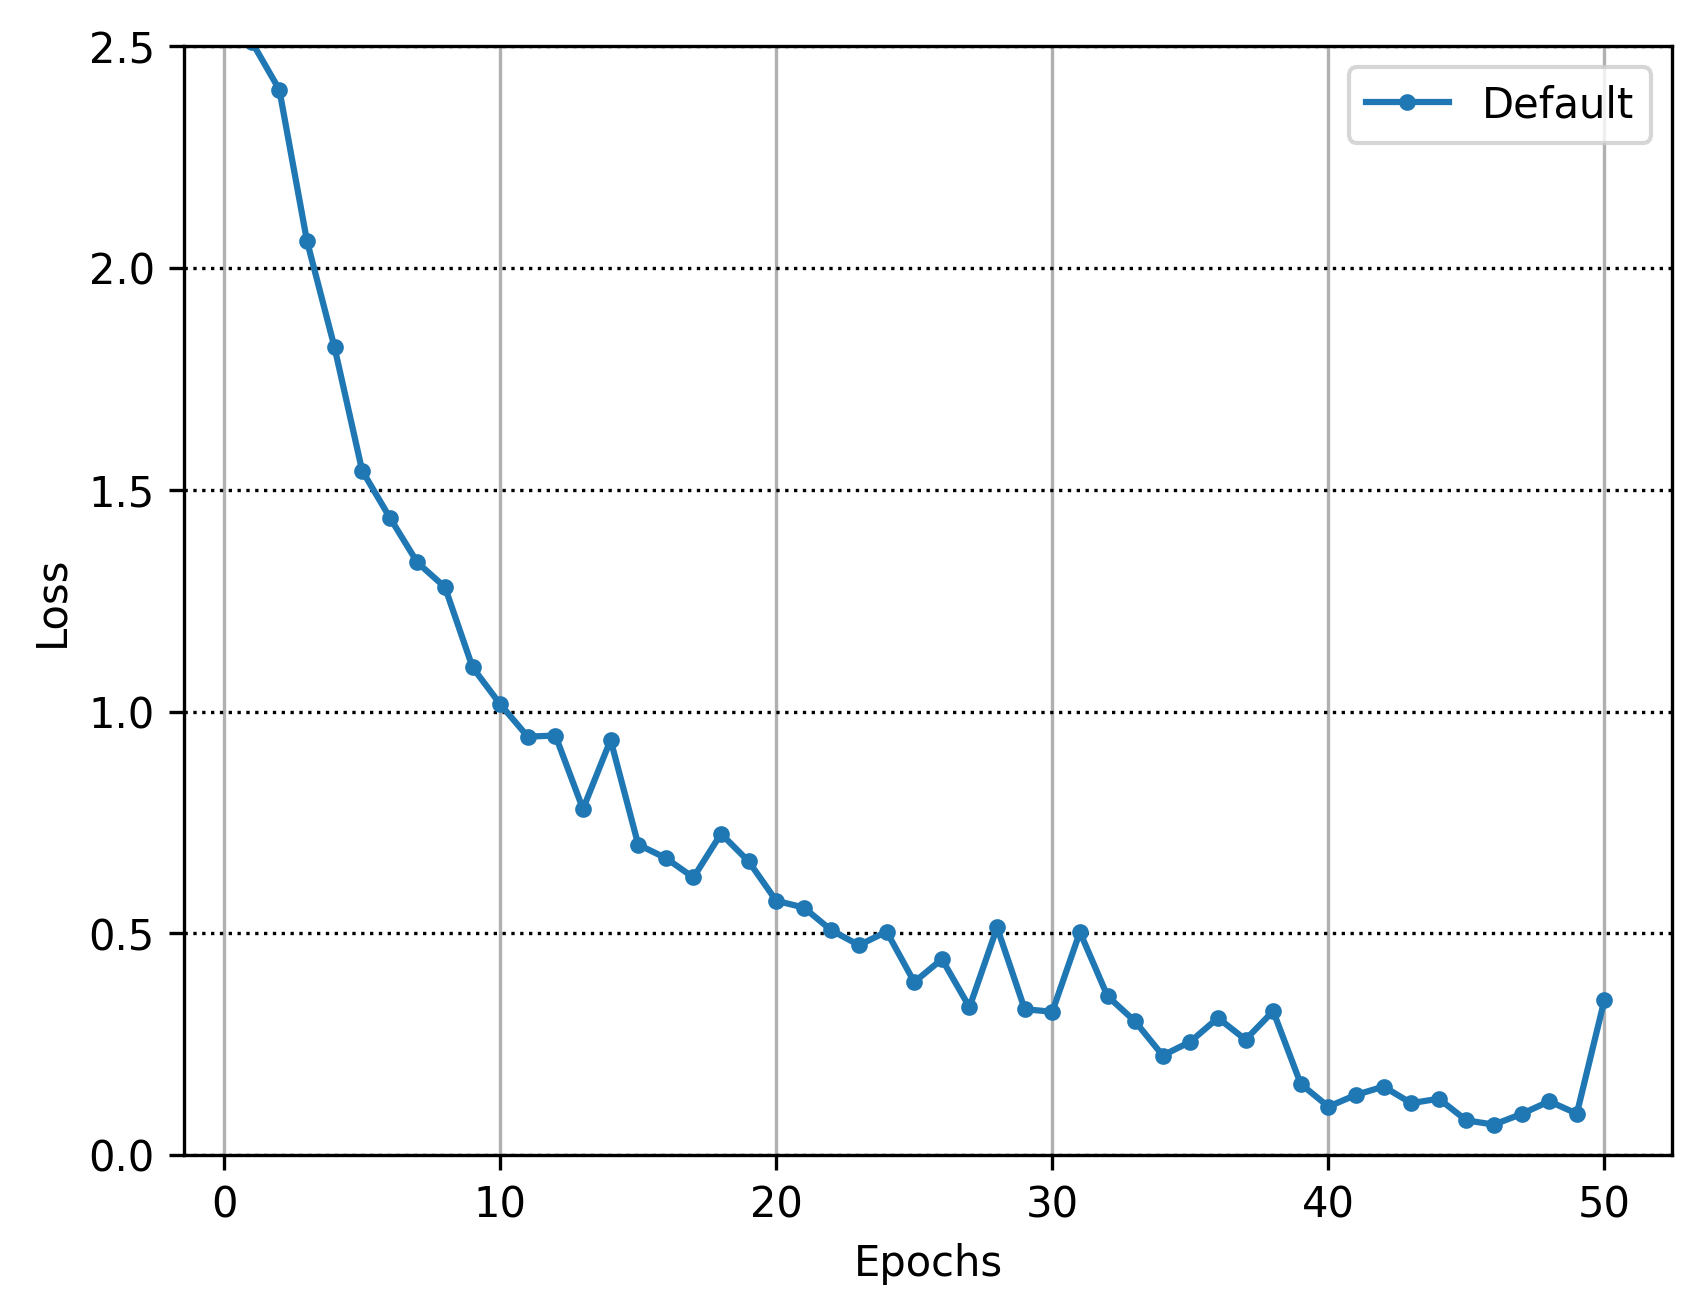
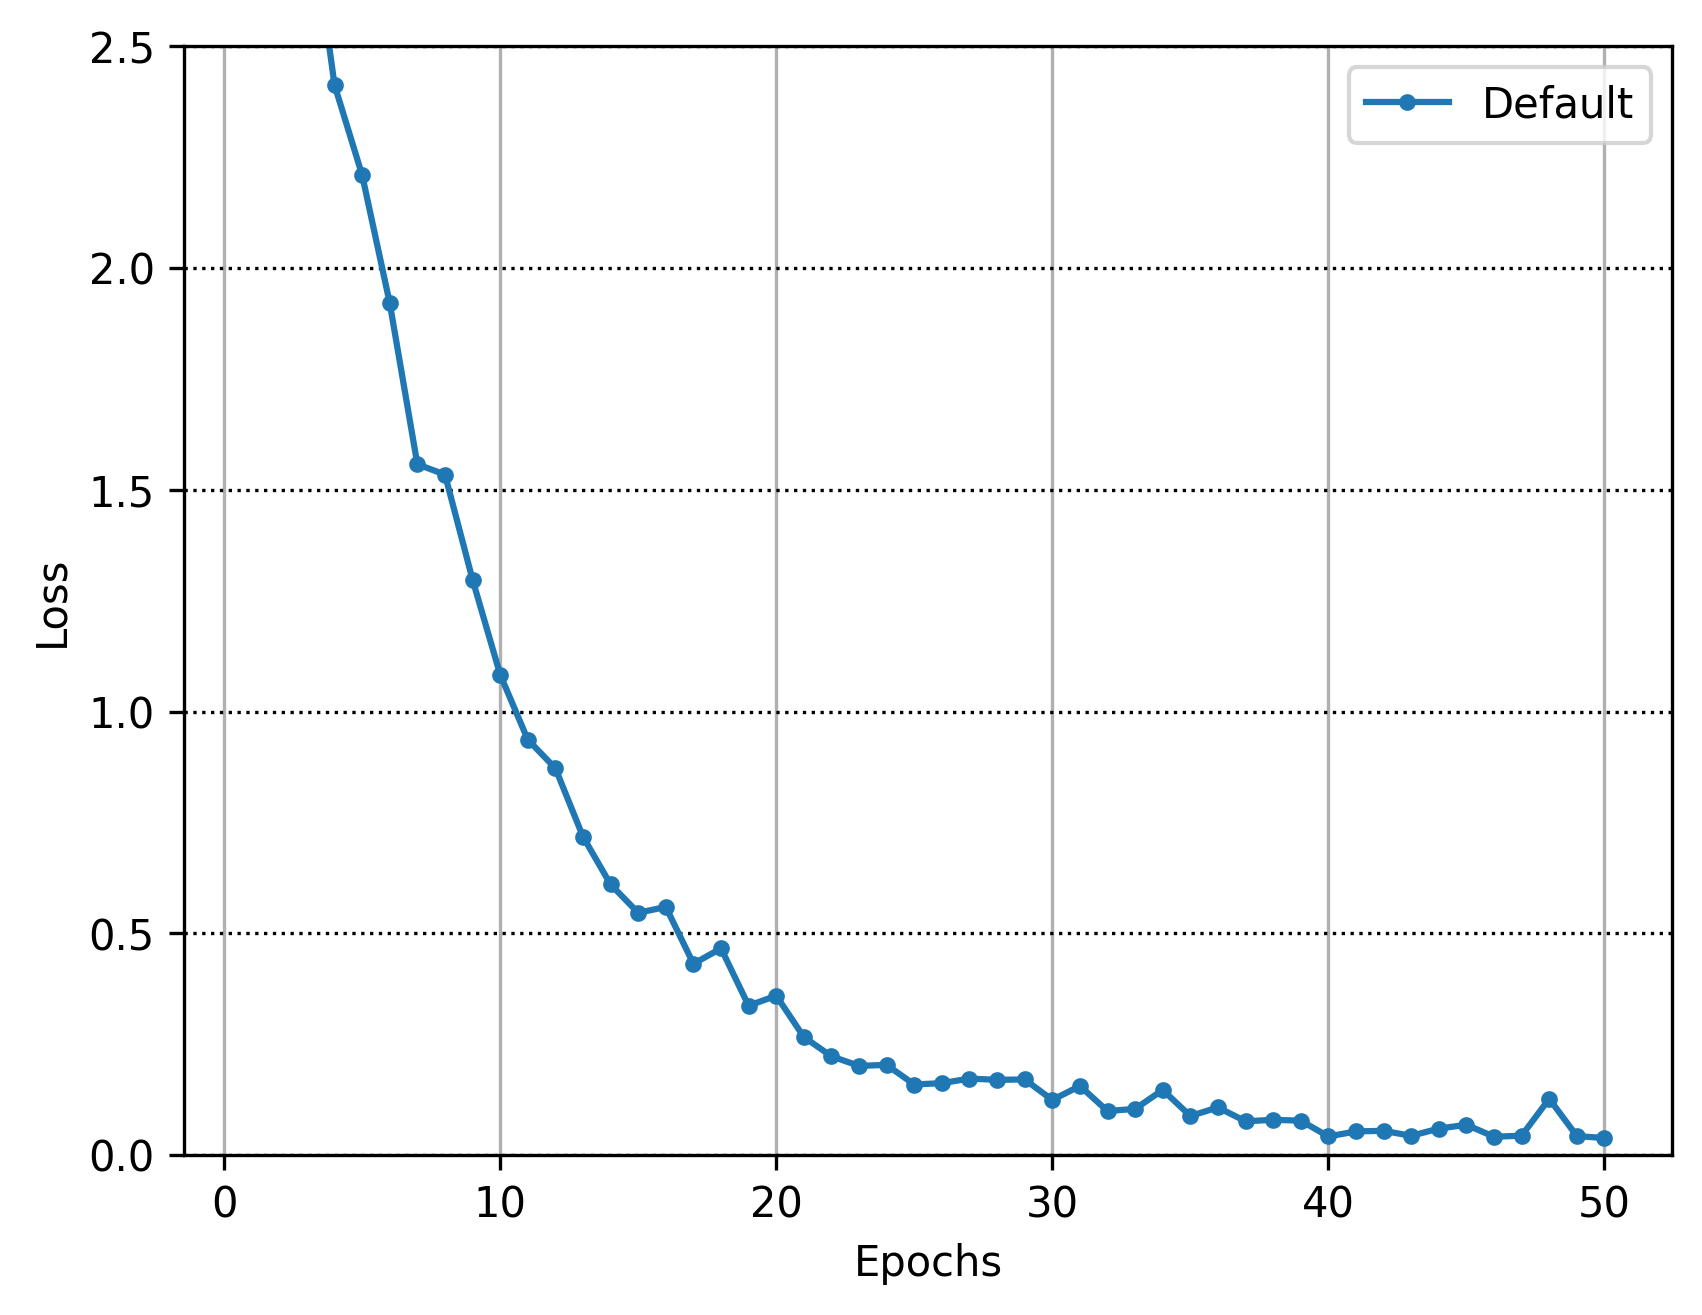
feat: lsa64関連

diff --git a/csv_to_hdf5/src/csv_to_hdf5.py b/csv_to_hdf5/src/csv_to_hdf5.py
@@ -1,18 +1,18 @@
 import os
-import glob
 import pandas as pd
 import h5py
 import numpy as np
+import config
+import lsa64_relation
 
 ROWS_PER_FRAME = 478 + 33 + 21 + 21  # Number of landmarks per frame.
 
 
 def get_index_csv_files():
-    file_path = "../../csv/nhk/index.csv"
     try:
-       track_info = pd.read_csv(file_path)
+       track_info = pd.read_csv(config.index_file_path)
     except FileNotFoundError:
-        print(f"ディレクトリ '{file_path}' が存在しません。")
+        print(f"ディレクトリ '{config.index_file_path}' が存在しません。")
     return track_info
 
 
@@ -32,15 +32,23 @@ def landmarks_csv_to_hdf5(track_info:list , output_dir: str, dictionary: dict, c
     for upid in upids:
         print(upid)
         temp_info = track_info[track_info["person_number"] == upid]
-        out_path = os.path.join(output_dir, f"{upid}.hdf5")
+        out_path = os.path.join(output_dir, f"{str(upid).zfill(3)}.hdf5")
         print(f"person_number={upid} のデータを '{out_path}' に保存します。")
-
+        if not os.path.exists(out_path):
+            try:
+                os.makedirs(output_dir, exist_ok=True)
+                print(f"フォルダ '{output_dir}' を作成しました。")
+            except Exception as e:
+                print(f"フォルダ '{output_dir}' の作成中にエラーが発生しました: {e}")
+                return
         with h5py.File(out_path, "w") as f:
             for info in temp_info.itertuples(index=False):
                 path = info[0]
                 pid = info[1]
                 sid = info[2]
-                token = np.array([dictionary[info[3]]])
+                sign = lsa64_relation.lsa64_nan_to_none(info[3])
+                token = np.array([dictionary[sign]])
+                
                 assert pid == upid, f"{pid}:{upid}"
                 track_path = "../.." + path
                
@@ -48,8 +56,6 @@ def landmarks_csv_to_hdf5(track_info:list , output_dir: str, dictionary: dict, c
                     continue
 
                 track = load_relevant_data_subset(track_path)
-                if track_path == "../../csv/nhk/America/6000.csv":
-                    print(track)
                 # `[T, J, C] -> [C, T, J]`
                 if convert_to_channel_first:
                     track = track.transpose([2, 0, 1])
@@ -63,27 +69,4 @@ def landmarks_csv_to_hdf5(track_info:list , output_dir: str, dictionary: dict, c
 
 if __name__ == "__main__":
     track_info = get_index_csv_files()
-    output_dir = "../../hdf5/nhk/"
-    dictionary = {
-        "America": 0,
-        "china": 1,
-        "commitee": 2,
-        "confirm": 3,
-        "corona": 4,
-        "emergency": 5,
-        "expand": 6,
-        "gorvement": 7,
-        "infection": 8,
-        "jpan": 9,
-        "measure": 10,
-        "minister": 11,
-        "osaka": 12,
-        "person": 13,
-        "policy": 14,
-        "prezen": 15,
-        "state": 16,
-        "today": 17,
-        "tokyo": 18,
-        "vaccination": 19,
-    }
-    landmarks_csv_to_hdf5(track_info, output_dir=output_dir, dictionary=dictionary, convert_to_channel_first=True)
+    landmarks_csv_to_hdf5(track_info, output_dir=config.out_dir, dictionary=lsa64_relation.lsa64_key_value, convert_to_channel_first=True)

diff --git a/IsolatedSignLanguage/transformer/isolate_handlanguage_transformer/dataset.py b/IsolatedSignLanguage/transformer/isolate_handlanguage_transformer/dataset.py
@@ -7,22 +7,22 @@ from torch.utils.data import (
 import numpy as np
 from torchvision.transforms import Compose
 import transformer.isolate_handlanguage_transformer.features as features
+import transformer.isolate_handlanguage_transformer.config as config
 import copy
 import torch
 from typing import Tuple, List
 import json
 
 
-def read_dataset(input_dir: Path =  "../hdf5/nhk/") -> Tuple[List, List, List, int]:
+def read_dataset(input_dir: Path = config.read_dataset_dir) -> Tuple[List, List, List, int]:
     dataset_dir = Path(input_dir)
     files = list(dataset_dir.iterdir())
+    print(files)
     hdf5_files = [fin for fin in files if ".hdf5" in fin.name]
 
-    test_file = 10001
-    val_file = 10000
-    train_hdf5files = [fin for fin in hdf5_files if str(test_file) not in fin.name]
-    val_hdf5files = [fin for fin in hdf5_files if str(val_file) in fin.name]
-    test_hdf5files = [fin for fin in hdf5_files if str(test_file) in fin.name]
+    train_hdf5files = [fin for fin in hdf5_files if config.test_number not in fin.name]
+    val_hdf5files = [fin for fin in hdf5_files if config.val_number in fin.name]
+    test_hdf5files = [fin for fin in hdf5_files if config.test_number in fin.name]
     dictionary = [fin for fin in files if ".json" in fin.name][0]
     with open(dictionary, "r") as f:
         key2token = json.load(f)

diff --git a/csv_to_hdf5/src/lsa64_relation.py b/csv_to_hdf5/src/lsa64_relation.py
@@ -1,0 +1,72 @@
+lsa64_key_value = {
+    "Opaque": 0,
+    "Red": 1,
+    "Green": 2,
+    "Yellow": 3,
+    "Bright": 4,
+    "Light-blue": 5,
+    "Colors": 6,
+    "Pink": 7,
+    "Women": 8,
+    "Enemy": 9,
+    "Son": 10,
+    "Man": 11,
+    "Away": 12,
+    "Drawer": 13,
+    "Born": 14,
+    "Learn": 15,
+    "Call": 16,
+    "Skimmer": 17,
+    "Bitter": 18,
+    "Sweet_milk": 19,
+    "Milk": 20,
+    "Water": 21,
+    "Food": 22,
+    "Argentina": 23,
+    "Uruguay": 24,
+    "Country": 25,
+    "Last_name": 26,
+    "Where": 27,
+    "Mock": 28,
+    "Birthday": 29,
+    "Breakfast": 30,
+    "Photo": 31,
+    "Hungry": 32,
+    "Map": 33,
+    "Coin": 34,
+    "Music": 35,
+    "Ship": 36,
+    "None": 37,
+    "Name": 38,
+    "Patience": 39,
+    "Perfume": 40,
+    "Deaf": 41,
+    "Trap": 42,
+    "Rice": 43,
+    "Barbecue": 44,
+    "Candy": 45,
+    "Chewing-gum": 46,
+    "Spaghetti": 47,
+    "Yogurt": 48,
+    "Accept": 49,
+    "Thanks": 50,
+    "Shut_down": 51,
+    "Appear": 52,
+    "To_land": 53,
+    "Catch": 54,
+    "Help": 55,
+    "Dance": 56,
+    "Bathe": 57,
+    "Buy": 58,
+    "Copy": 59,
+    "Run": 60,
+    "Realize": 61,
+    "Give": 62,
+    "Find": 63,
+}
+
+def lsa64_nan_to_none(info):
+    sign = str(info)
+    if sign == "nan":
+        return "None"
+    return sign

diff --git a/IsolatedSignLanguage/transformer/isolate_handlanguage_transformer/config.py b/IsolatedSignLanguage/transformer/isolate_handlanguage_transformer/config.py
@@ -18,6 +18,11 @@ MODELS_DIR = PROJ_ROOT / "models"
 REPORTS_DIR = PROJ_ROOT / "reports"
 FIGURES_DIR = REPORTS_DIR / "figures"
 
+#dataset
+read_dataset_dir = "../hdf5/lsa64_liner/"
+test_number = "001"
+val_number = "002"
+
 #train
 use_features  = ["x", "y"]
 batch_size = 32
@@ -41,6 +46,6 @@ USE_RHAND = np.arange(468+21+33, 468+21+33+21)
 
 #plots
 plot_save_dir = "transformer/reports/figures"
-plot_loss_save_path = "transformer_loss.png"
-plot_accuracy_save_path = "transformer_test_accuracy.png"
+plot_loss_save_path = "transformer_liner_loss.png"
+plot_accuracy_save_path = "transformer_test_liner_accuracy.png"
 

diff --git a/IsolatedSignLanguage/transformer/isolate_handlanguage_transformer/features.py b/IsolatedSignLanguage/transformer/isolate_handlanguage_transformer/features.py
@@ -113,11 +113,7 @@ class PartsBasedNormalization():
             # 欠損値のインデックスを取得
             # ここでは axis=1 に沿ってチェックしているため、対象となるインデックスは axis=1 のインデックス
             missing_indices = np.where(~tmask.reshape(-1))[0]
-            print(tmask)
             
-            # インデックスを表示（print）
-            print(f"欠損値が検出されました。欠損しているインデックス: {missing_indices.tolist()}")
-
         return tmask
 
     def _calc_origin(self, feature, origin_lm):

diff --git a/movie_to_csv/src/movie_to_csv_skeleton.py b/movie_to_csv/src/movie_to_csv_skeleton.py
@@ -98,6 +98,7 @@ if __name__ == "__main__":
     movie_files_list = get_movie_files()
     MediaPipeClass = mediapipe_relation.MediaPipeClass()
     index_records = []
+    
 
     for i, word_directory in enumerate(movie_files_list):
         for j, file in enumerate(word_directory):
@@ -118,5 +119,5 @@ if __name__ == "__main__":
                 'sign': folder_name
             }
             index_records.append(index_record)
-    index_csv_path = "../../csv/nhk/index.csv"
+    index_csv_path = "../../csv/lsa64/index.csv"
     create_index_csv(index_records, index_csv_path)

diff --git a/Interpolation/liner_interpolation/liner.py b/Interpolation/liner_interpolation/liner.py
@@ -37,7 +37,7 @@ if __name__ == "__main__":
         output_csv_dir = config.output_csv_directory_path + str(row['sign'])
         os.makedirs(output_csv_dir, exist_ok=True)
 
-        output_csv_path = output_csv_dir +  "/" + str(row['file_name']) + ".csv"
+        output_csv_path = output_csv_dir +  "/" + str(row['file_name'])
         df_interpolated.to_csv(output_csv_path, index=False)
         print(f"補間したデータを {output_csv_path} に保存しました。")
 

diff --git a/Interpolation/liner_interpolation/config.py b/Interpolation/liner_interpolation/config.py
@@ -1,4 +1,4 @@
-input_csv_directory_path = "/csv/nhk/"
-output_csv_directory_path = "./csv/nhk_liner/"
-index_file_path = "./csv/nhk/index.csv"
-restore_index_file_path = "./csv/nhk_liner/index.csv"
+input_csv_directory_path = "/csv/lsa64/"
+output_csv_directory_path = "./csv/lsa64_liner/"
+index_file_path = "./csv/lsa64/index.csv"
+restore_index_file_path = "./csv/lsa64_liner/index.csv"

diff --git a/csv_to_hdf5/src/config.py b/csv_to_hdf5/src/config.py
@@ -1,0 +1,2 @@
+index_file_path = "../../csv/lsa64_liner/index.csv"
+out_dir = "../../hdf5/lsa64_liner/"

diff --git a/csv_to_hdf5/src/README.md b/csv_to_hdf5/src/README.md
@@ -1,0 +1,15 @@
+# csv_to_hdf5
+csvファイルからhdf5変換
+
+## 実行コマンド
+```bash
+python csv_to_hdf5.py
+```
+
+## ファイル構成
+<pre>
+csv_to_hdf5/src/
+├── config.py
+├── csv_to_hdf5.py #csvファイルからhdf5に変換
+└── lsa64_relation #LSA64関係
+</pre>
